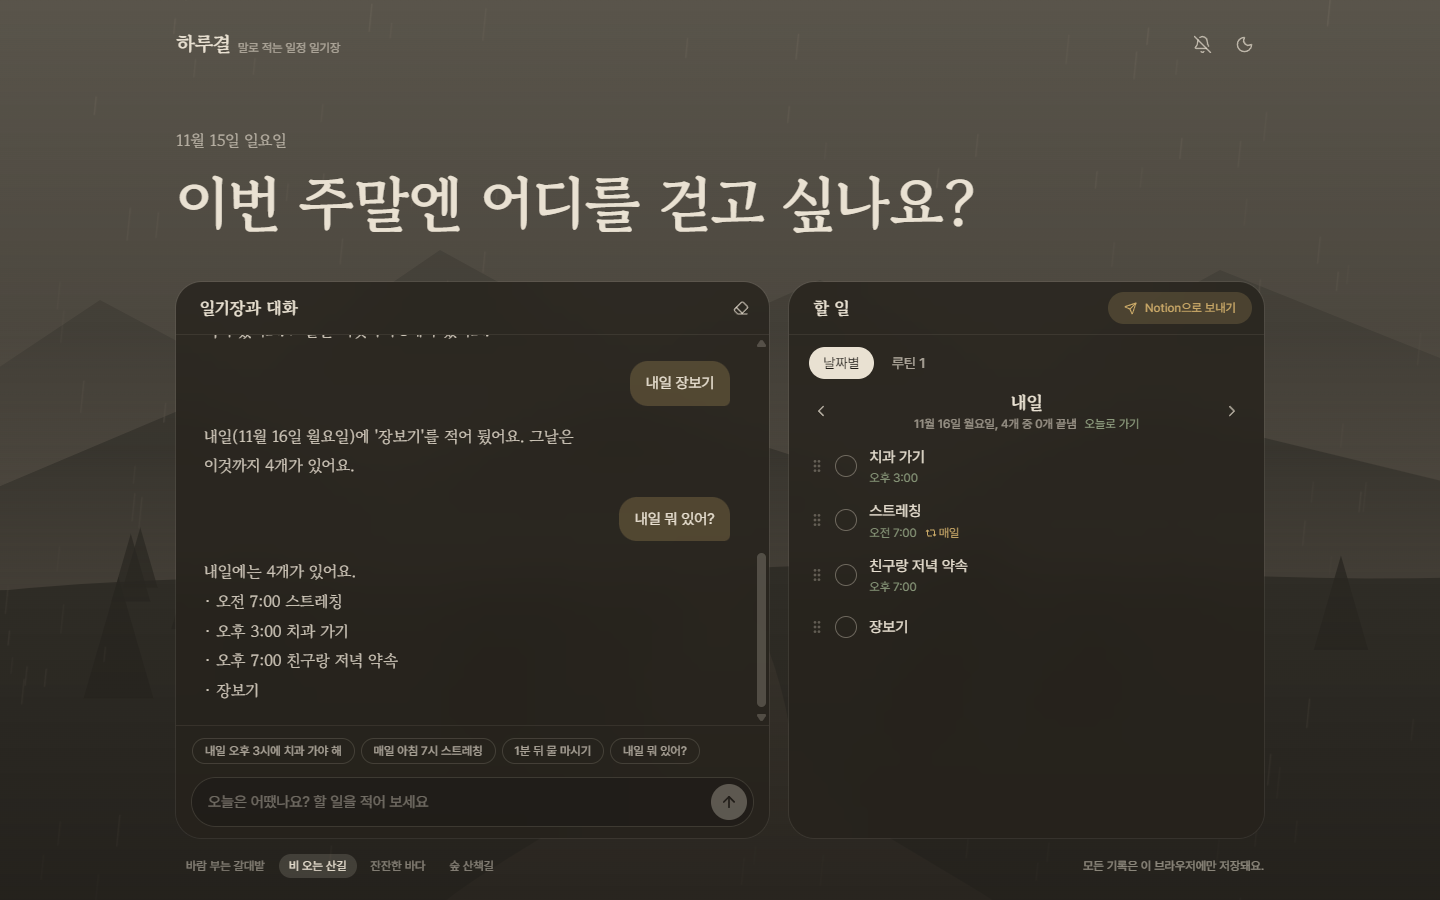
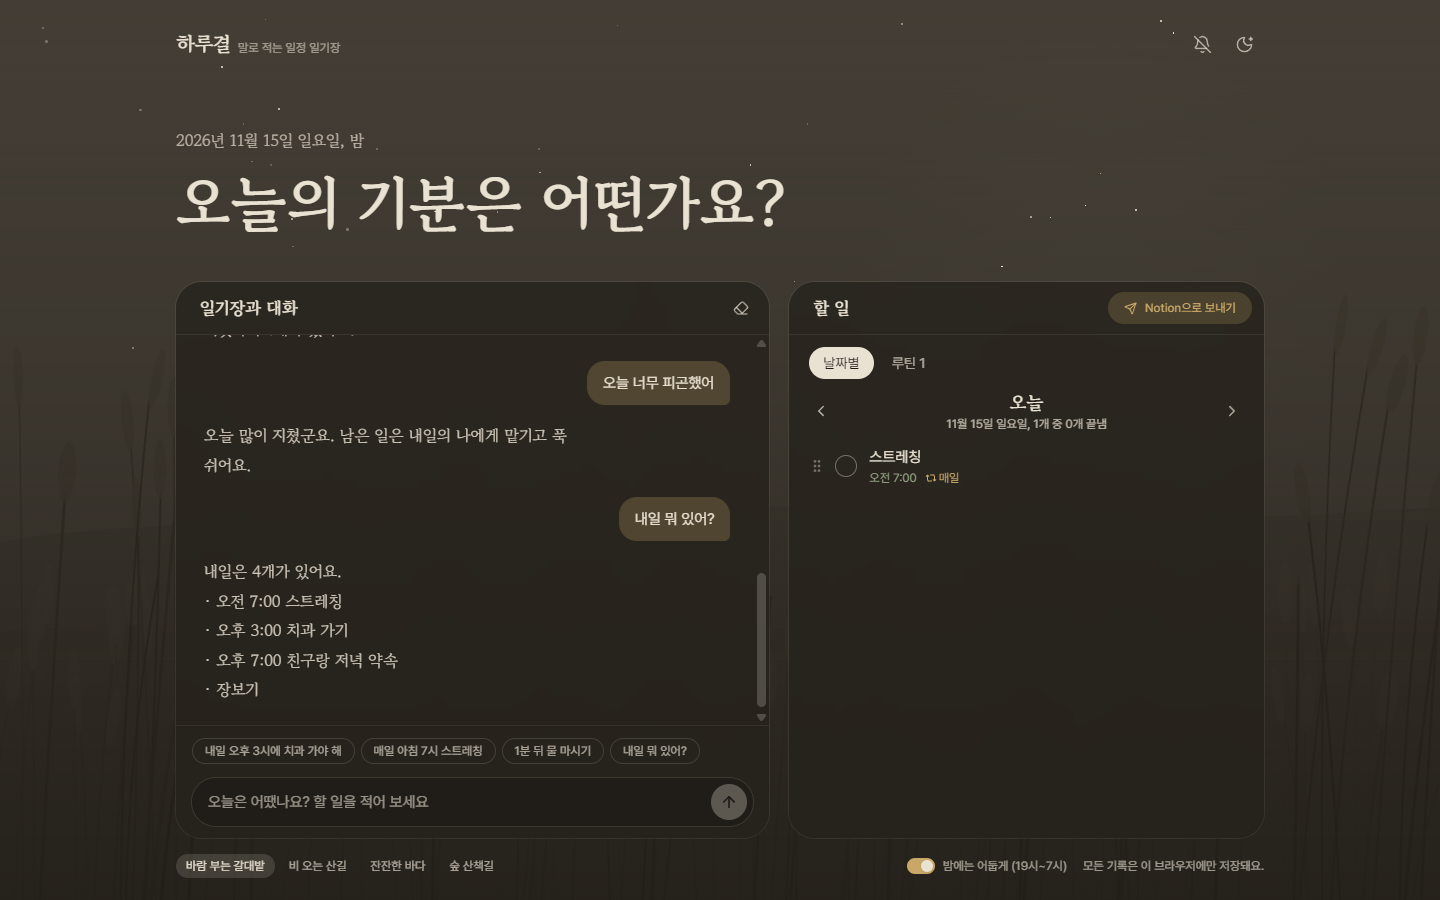
chore: v1.0.0 마무리 (파비콘, 스크린샷, 버전)
- Vite 기본 파비콘을 하루결 아이콘(초승달과 갈대)으로 교체
- README 스크린샷을 최신 화면으로 갱신하고 모바일 화면 추가
- package.json 버전 1.0.0

diff --git a/README.md b/README.md
@@ -4,9 +4,9 @@
 
 할 일 앱은 보통 입력 칸, 날짜 선택기, 시간 선택기를 차례로 거쳐야 합니다. 하루결은 이 과정을 대화 한 줄로 줄여 보려고 만든 개인 프로젝트입니다. React로 상태 관리와 컴포넌트 설계를 공부하면서 클론 코딩 정도의 규모 안에서 직접 기획하고 디자인하고 구현했습니다.
 
-| 라이트 모드 | 다크 모드 (등잔불 아래 일기장) |
-| --- | --- |
-| ![라이트 모드](docs/screenshot-light.png) | ![다크 모드](docs/screenshot-dark.png) |
+| 아침, 라이트 모드 | 밤, 자동 다크 모드 (등잔불 아래 일기장) | 해 질 녘, 모바일 |
+| --- | --- | --- |
+| ![아침 라이트 모드](docs/screenshot-light.png) | ![밤 다크 모드](docs/screenshot-dark.png) | ![해 질 녘 모바일](docs/screenshot-mobile.png) |
 
 ## 주요 기능
 
